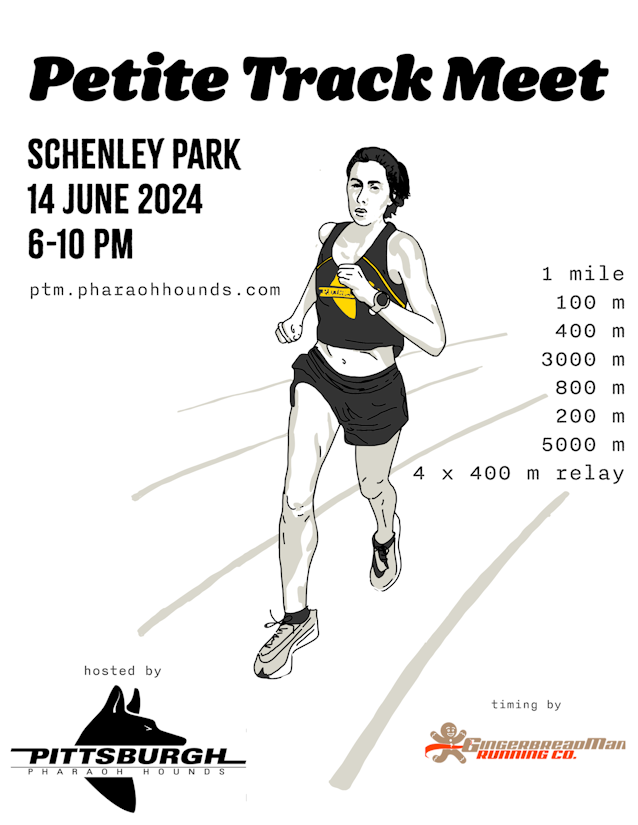
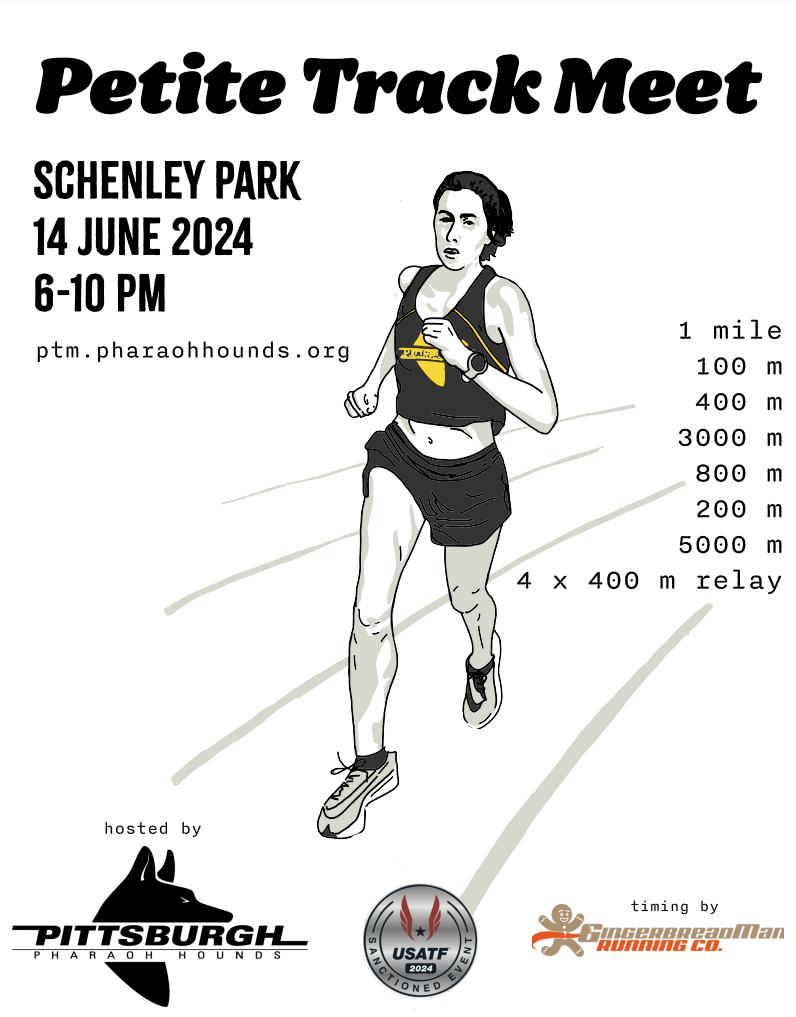
Add 2024 registration and update image with USATF + fixed URL

diff --git a/index.html b/index.html
@@ -22,18 +22,17 @@
   <br/>
   <img class="responsive-img" src="images/ptm_2024.png"/>
   <br/>
-  <br/>
-  <br/>
   <div class="card-panel" style="width:90%">
-  <br>
-  <b> <span style="background-color: #FFFF00">Update, 4/21/2024: PTM 2024 registration is coming soon!</span>
   <br/>
-  <!-- <br>
-  Join the <a href="https://www.pharaohhounds.org/">Pittsburgh Pharaoh Hounds</a> and <a href="https://www.gingerbreadmanrunning.com/">Gingerbread Man Running</a> at the 7th Annual Petite Track Meet on  Friday, June 23rd, starting at 6 PM. 
+  Join the <a href="https://www.pharaohhounds.org/">Pittsburgh Pharaoh Hounds</a> and <a href="https://www.gingerbreadmanrunning.com/">Gingerbread Man Running</a> at the <b>8th Annual Petite Track Meet on Friday, June 14th, starting at 6 PM</b>. 
   <br/>
-  <b><a href="https://www.athletic.net/TrackAndField/meet/501105/info">Registration</a> closes Friday, June 23nd, at 5 PM, so don't delay!</b>
-  <br/> -->
-  <br>
+  <br/>
+  <b><span style="background-color: #FFFF00"><a href="https://www.athletic.net/TrackAndField/meet/554015/register">[REGISTRATION IS LIVE]</a></span> and closes Friday, June 14th, at 5 PM, so don't delay!</b>
+  <br/>
+  <br/>
+  <i>You can register as an "Unattached Athlete" or through your club if you're registered with them on athletic.net</i>
+  <br/>
+  <br/>
   The Petite Track Meet is an open track meet for everyone in Pittsburgh! All ages and running abilities are welcome!
   <br/>
   <br/>
@@ -41,7 +40,7 @@
   <br/>
   <br/>
  </div>
-  <!-- <a class="waves-effect waves-light btn-small black" href="https://www.athletic.net/TrackAndField/meet/501105/"><i class="material-icons right">event_available</i>Register via Athletic.net</a><br/><br/> -->
+  <a class="waves-effect waves-light btn-small black" href="https://www.athletic.net/TrackAndField/meet/554015/register"><i class="material-icons right">event_available</i>Register via Athletic.net</a><br/><br/>
   <!-- <a class="waves-effect waves-light btn-small black" href="https://www.facebook.com/events/947028672676511"><i class="material-icons right">facebook</i>  Facebook Event  </a><br/><br/> -->
   <a class="waves-effect waves-light btn-small black" href="https://www.pharaohhounds.org/"><i class="material-icons right">web</i>Pharaoh Hounds Website</a><br/><br/>
   <a class="waves-effect waves-light btn-small black" href="past_results.html"><i class="material-icons right">watch_later</i>Past Results</a>
